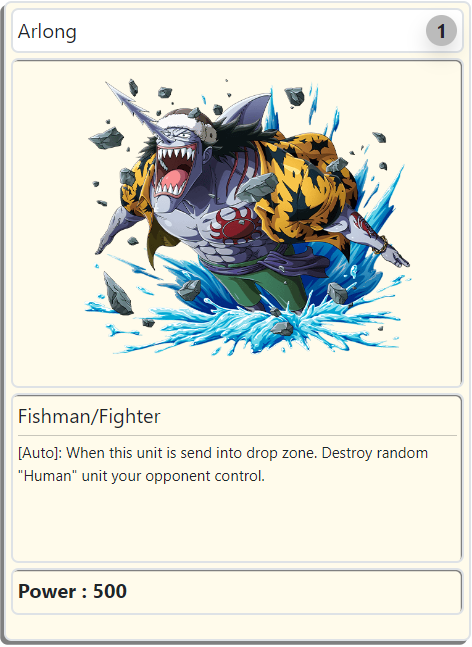
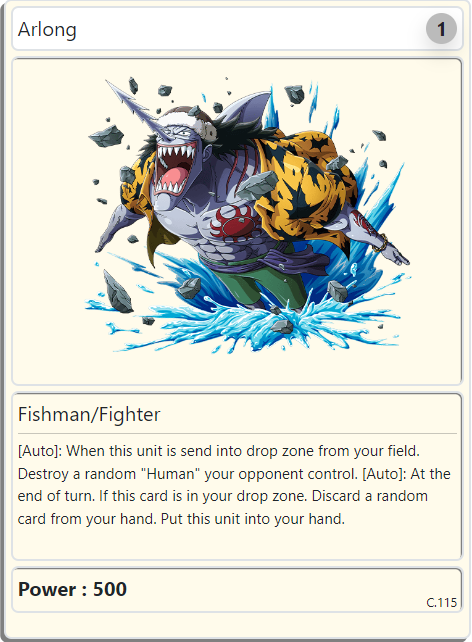
C118

diff --git a/src/views/arena/new-arena/index.vue b/src/views/arena/new-arena/index.vue
@@ -769,8 +769,35 @@ export default {
         const index = Math.floor(Math.random() * data.openLocation.length)
         data.location = data.openLocation[index]
         data.todo = 'CALL FROM DECK'
-        // this.SEARCH_DECK_FOR_NAME(data)
         this.SEARCH_DECK_NORMAL(data)
+      }
+    },
+    CALL_FROM_HAND_BY_RACE_AND_GRADE (data) {
+      if (data.who === 'player') {
+        data.field = this.data.player.field
+      } else {
+        data.field = this.data.opponent.field
+      }
+      data.openLocation = []
+      data.front = data.field.front
+      data.back = data.field.back
+      data.unitF1 = data.front.unitF1
+      data.unitF2 = data.front.unitF2
+      data.unitF3 = data.front.unitF3
+      data.unitB1 = data.back.unitB1
+      data.unitB2 = data.back.unitB2
+      data.unitB3 = data.back.unitB3
+      if (!data.unitF1.isUnit) { data.openLocation.push('unit F1') }
+      if (!data.unitF2.isUnit) { data.openLocation.push('unit F2') }
+      if (!data.unitF3.isUnit) { data.openLocation.push('unit F3') }
+      if (!data.unitB1.isUnit) { data.openLocation.push('unit B1') }
+      if (!data.unitB2.isUnit) { data.openLocation.push('unit B2') }
+      if (!data.unitB3.isUnit) { data.openLocation.push('unit B3') }
+      if (data.openLocation.length > 0) {
+        const index = Math.floor(Math.random() * data.openLocation.length)
+        data.location = data.openLocation[index]
+        data.todo = 'CALL FROM HAND'
+        this.SEARCH_HAND_FOR_RACE_AND_GRADE(data)
       }
     },
     moveOrACT (data) {
@@ -852,7 +879,8 @@ export default {
         data.unit.card.code === '100' ||
         data.unit.card.code === '105' ||
         data.unit.card.code === '110' ||
-        data.unit.card.code === '111'
+        data.unit.card.code === '111' ||
+        data.unit.card.code === '118'
       ) {
         data.option.act = 'ACT'
       }
@@ -1907,6 +1935,10 @@ export default {
           data.index = cards[index]
           this.callFromDrop(data)
         }
+        if (data.todo === 'DROP TO HAND') {
+          data.hand.push(data.drop[cards[index]])
+          data.drop.splice(cards[index], 1)
+        }
       }
     },
     SEARCH_DROP_FOR_CODE (data) {
@@ -1958,6 +1990,36 @@ export default {
         if (data.todo === 'BIND TO HAND') {
           data.hand.push(data.bind[cards[index]])
           data.bind.splice(cards[index], 1)
+        }
+      }
+    },
+    SEARCH_HAND_FOR_RACE_AND_GRADE (data) {
+      if (data.who === 'player') {
+        data.hand = this.data.player.hand
+      } else {
+        data.hand = this.data.opponent.hand
+      }
+      const cards = []
+      for (let i = 0; i < data.hand.length; i++) {
+        if (data.hand[i].type.race.search(data.race) >= 0 && data.hand[i].grade === data.grade) {
+          cards.push(i)
+        }
+      }
+      if (cards.length > 0) {
+        const index = Math.floor(Math.random() * cards.length)
+        if (data.todo === 'CALL FROM HAND') {
+          if (data.who === 'player') {
+            this.data.player.unit = {
+              card: data.hand[cards[index]],
+              index: cards[index]
+            }
+          } else {
+            this.data.opponent.unit = {
+              card: data.hand[cards[index]],
+              index: cards[index]
+            }
+          }
+          this.callFromHand(data)
         }
       }
     },
@@ -2256,6 +2318,36 @@ export default {
         }
       }
     },
+    RANDOM_FIELD_OP_BY_RACE (data) {
+      if (data.who === 'player') {
+        data.target = 'opponent'
+        data.field = this.data.opponent.field
+      } else {
+        data.target = 'player'
+        data.field = this.data.player.field
+      }
+      data.front = data.field.front
+      data.back = data.field.back
+      data.unitF1 = data.front.unitF1
+      data.unitF2 = data.front.unitF2
+      data.unitF3 = data.front.unitF3
+      data.unitB1 = data.back.unitB1
+      data.unitB2 = data.back.unitB2
+      data.unitB3 = data.back.unitB3
+      const units = []
+      if (data.unitF1.isUnit && data.unitF1.card.type.race.search(data.race) >= 0) { units.push({ location: 'unit F1' }) }
+      if (data.unitF2.isUnit && data.unitF2.card.type.race.search(data.race) >= 0) { units.push({ location: 'unit F2' }) }
+      if (data.unitF3.isUnit && data.unitF3.card.type.race.search(data.race) >= 0) { units.push({ location: 'unit F3' }) }
+      if (data.unitB1.isUnit && data.unitB1.card.type.race.search(data.race) >= 0) { units.push({ location: 'unit B1' }) }
+      if (data.unitB2.isUnit && data.unitB2.card.type.race.search(data.race) >= 0) { units.push({ location: 'unit B2' }) }
+      if (data.unitB3.isUnit && data.unitB3.card.type.race.search(data.race) >= 0) { units.push({ location: 'unit B3' }) }
+      if (units.length > 0) {
+        const index = Math.floor(Math.random() * units.length)
+        if (data.todo === 'destroy') {
+          this.destroy({ who: data.target, location: units[index].location })
+        }
+      }
+    },
     AUTO_POWER (data) {
       if (data.who === 'player') {
         data.field = this.data.player.field
@@ -2509,6 +2601,7 @@ export default {
       if (data.unit.card.code === '056') { this.EFF056(data) }
       if (data.unit.card.code === '057') { this.EFF057(data) }
       if (data.unit.card.code === '077') { this.EFF077(data) }
+      if (data.unit.card.code === '115') { this.EFF115(data) }
       this.AUTO_UNIT_DESTROY_ON_HAND(data)
     },
     AUTO_UNIT_DESTROY_ON_HAND (data) {
@@ -2586,6 +2679,8 @@ export default {
       if (data.drop[index].code === '076') { this.EFF076_AUTO(data) }
       if (data.drop[index].code === '108') { this.EFF108(data) }
       if (data.drop[index].code === '109') { this.EFF109(data) }
+      if (data.drop[index].code === '116') { this.EFF116(data) }
+      if (data.drop[index].code === '117') { this.EFF117(data) }
     },
     AUTO_ON_U_DISCARD (data) {
       if (data.who === 'player') {
@@ -2731,6 +2826,7 @@ export default {
       }
       for (let i = 0; i < data.drop.length; i++) {
         if (data.drop[i].code === '066') { this.EFF066_DROP(data) }
+        if (data.drop[i].code === '115') { this.EFF115_DROP({ who: data.who, index: i }) }
       }
     },
     EFF_ACT (data) {
@@ -2783,6 +2879,7 @@ export default {
         if (data.unit.card.code === '105') { this.EFF105(data) }
         if (data.unit.card.code === '110') { this.EFF110(data) }
         if (data.unit.card.code === '111') { this.EFF111(data) }
+        if (data.unit.card.code === '118') { this.EFF118(data) }
         data.unit.onePerTurn = true
       }
     },
@@ -5409,12 +5506,70 @@ export default {
     EFF114_POWER (data) { // Dracule Mihawk
       data.gain = data.damage
       this.CONT_POWER(data)
+    },
+    EFF115 (data) { // Arlong
+      data.todo = 'destroy'
+      data.race = 'Human'
+      setTimeout(() => this.RANDOM_FIELD_OP_BY_RACE(data), 500)
+    },
+    EFF115_DROP (data) { // Arlong
+      if (data.who === 'player') {
+        data.hand = this.data.player.hand
+        data.drop = this.data.player.drop
+      } else {
+        data.hand = this.data.opponent.hand
+        data.drop = this.data.opponent.drop
+      }
+      if (data.hand.length > 0) {
+        data.cost = 'discard'
+        data.discard = ''
+        this.COST(data)
+        data.hand.push(data.drop[data.index])
+        data.drop.splice(data.index, 1)
+      }
+    },
+    EFF116 (data) { // Chew
+      if (data.who === 'player') {
+        data.hand = this.data.player.hand
+      } else {
+        data.hand = this.data.opponent.hand
+      }
+      if (data.hand.length > 0) {
+        data.grade = 1
+        data.race = 'Fishman'
+        data.todo = 'CALL FROM HAND'
+        setTimeout(() => this.CALL_FROM_HAND_BY_RACE_AND_GRADE(data), 500)
+      }
+    },
+    EFF117 (data) { // Kuroobi
+      data.grade = 1
+      data.race = 'Fishman'
+      data.todo = 'DECK TO HAND'
+      this.SEARCH_DECK_FOR_RACE_AND_GRADE_LESS(data)
+    },
+    EFF118 (data) { // Hatchan
+      if (data.who === 'player') {
+        data.hand = this.data.player.hand
+      } else {
+        data.hand = this.data.opponent.hand
+      }
+      if (data.hand.length > 0) {
+        data.cost = 'pay life and discard'
+        data.discard = ''
+        data.pay = 500
+        this.COST(data)
+        for (let i = 0; i < 2; i++) {
+          data.race = 'Fishman'
+          data.todo = 'DROP TO HAND'
+          this.SEARCH_DROP_FOR_RACE(data)
+        }
+      }
     }
   },
   created () {
     this.parse(this.deckPlay, 'player')
     this.parse(this.deckOpponent, 'opponent')
-    // this.shuffle({ who: 'player', deck: this.data.player.deck })
+    this.shuffle({ who: 'player', deck: this.data.player.deck })
     this.shuffle({ who: 'opponent', deck: this.data.opponent.deck })
     for (let i = 0; i < 5; i++) { // Max Hand Card 14
       this.draw({ who: 'player' })

diff --git a/src/views/index.vue b/src/views/index.vue
@@ -2800,7 +2800,7 @@ export default {
                 job: 'Swordman',
                 special: ''
               },
-              text: '[Act][1/Turn]: Pay 500 life points. Choose unit your control and destroy that unit. Call up to one "Fishman" Grade 1 from your drop zone.',
+              text: '[Act][1/Turn]: Pay 500 life points and discard a random card from your hand. Put up to two "Fishman" from drop zone into your hand.',
               power: 500,
               code: '118'
             },
@@ -2814,7 +2814,7 @@ export default {
                 job: 'Fighter',
                 special: ''
               },
-              text: '[Act][1/Turn]: Choose unit your control and destroy that unit. Search your deck. Put up to one "Fishman" Grade 1 from your deck into your hand. Shuffle your deck.',
+              text: '[Auto]: When this card is discarded. Add up to one Grade 1 "Fishman" from deck into your hand. Shuffle your deck.',
               power: 500,
               code: '117'
             },
@@ -2828,7 +2828,7 @@ export default {
                 job: 'Gunner',
                 special: ''
               },
-              text: '[Auto]: When this unit is placed on battlefield. Call up to one "Fishman" Grade 1 unit from your drop zone.',
+              text: '[Auto]: When this card is discarded. Call up to one "Fishman" Grade 1 unit from your hand.',
               power: 500,
               code: '116'
             },
@@ -2842,8 +2842,7 @@ export default {
                 job: 'Fighter',
                 special: ''
               },
-              text: '[Auto]: When this unit is send into drop zone. Destroy random "Human" unit your opponent control.',
-              // text: '[Auto]: When this unit is send into drop zone. Destroy random "Human" unit your opponent control.',
+              text: '[Auto]: When this unit is send into drop zone from your field. Destroy a random "Human" your opponent control. [Auto]: At the end of turn. If this card is in your drop zone. Discard a random card from your hand. Put this unit into your hand.',
               power: 500,
               code: '115'
             },
